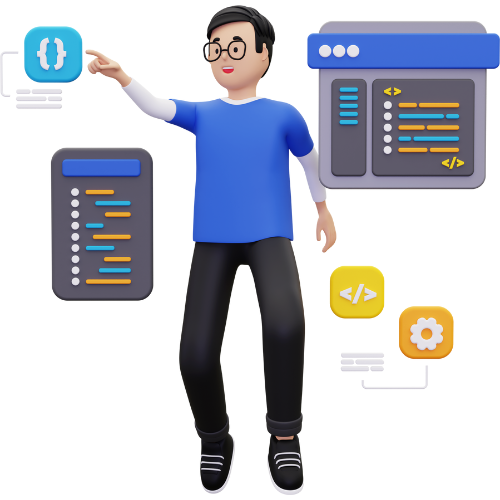
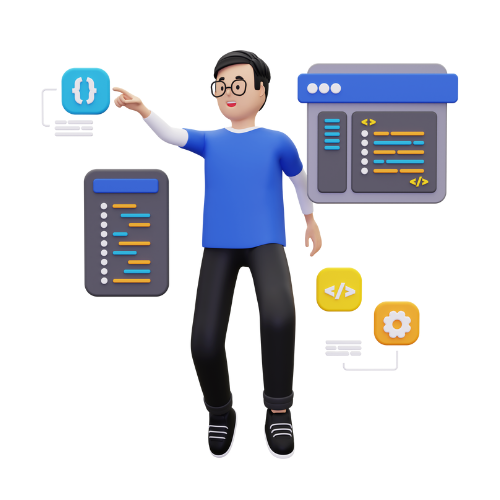
ajuste imagem

diff --git a/src/styles/Home.module.css b/src/styles/Home.module.css
@@ -26,7 +26,8 @@
 /* spline canvas */
 #canvas-container
 {
-    @apply bg-background border rounded-3xl h-[515px] xl:w-[690px] xl:min-w-[690px] overflow-hidden;
+    @apply bg-background border rounded-3xl sm:h-[300px] xl:h-[490px] xl:w-[690px] xl:min-w-[690px] xl:min-h-[450px] overflow-hidden;
+    @apply flex items-center justify-center;
 
     /* this fixes the overflow:hidden in Chrome/Opera */
     /* -webkit-mask-image: url() */

diff --git a/src/pages/index.tsx b/src/pages/index.tsx
@@ -252,7 +252,7 @@ export default function Home() {
             className="mt-14 h-full w-full xl:mt-0"
           >
             <Suspense fallback={<span>Loading...</span>}>
-              <img src="/assets/tela-inicial1.png" className="pl-20" />
+              <img src="/assets/tela-inicial1.png"  alt="Description of image" alt=""/>
             </Suspense>
           </div>
         </section>
